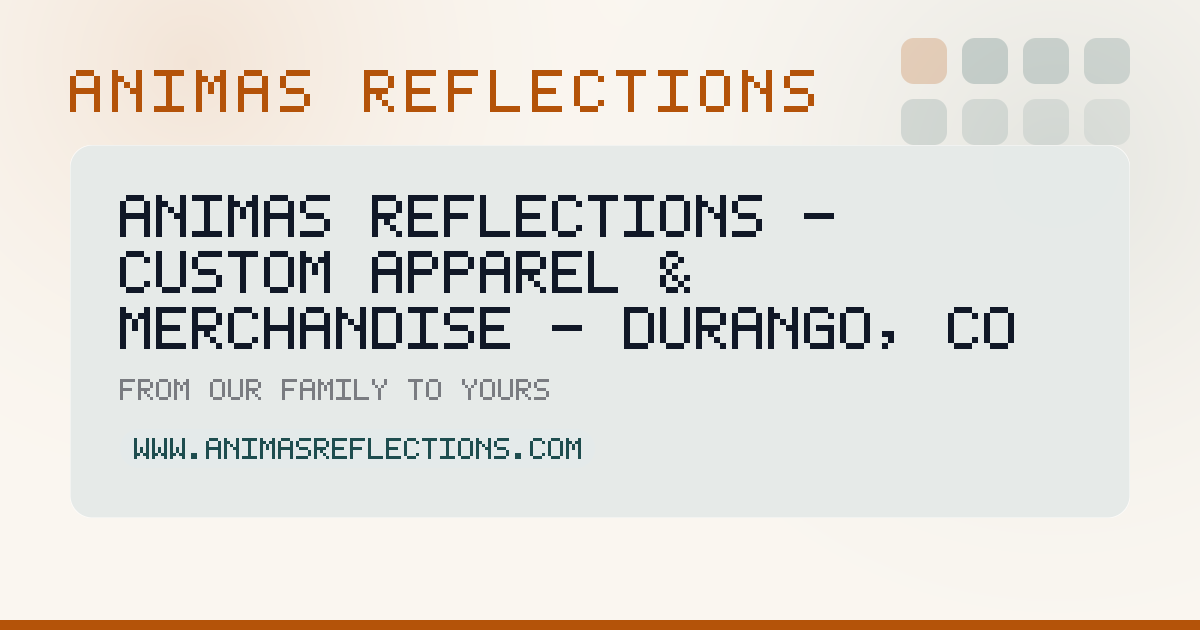
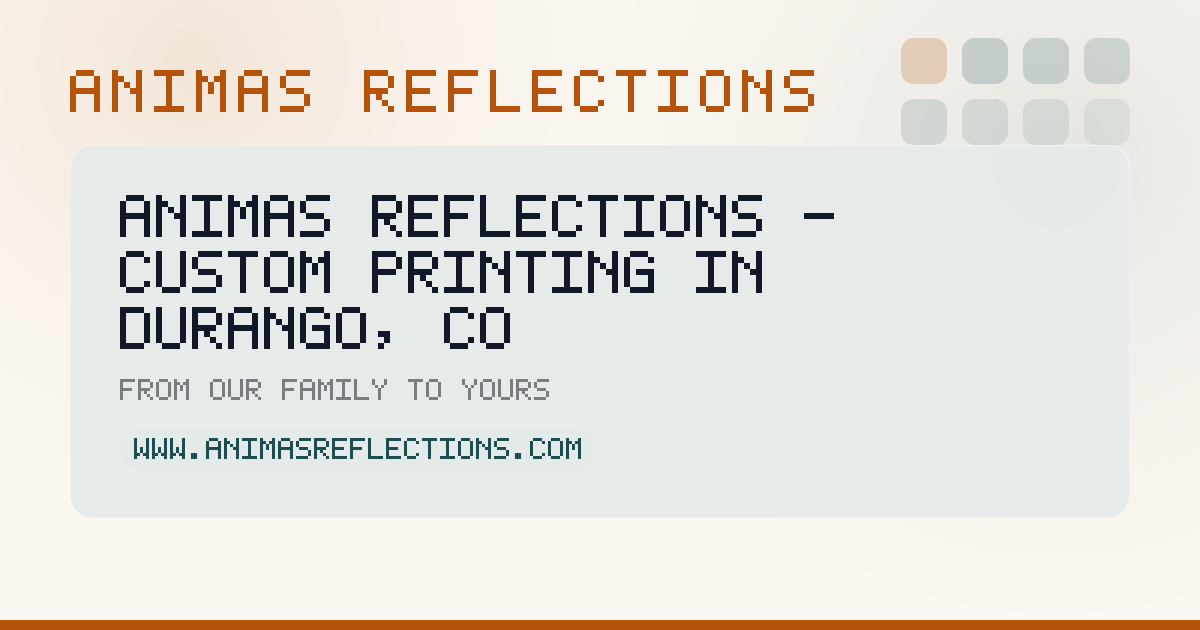
feat(seo): build-time SEO gate, and fix the title/description limits it found
Ports the Nown S.I.T.E.S tools/check-site.mjs SEO gate to this static export as
scripts/check-seo.mjs, wired to postbuild. The walk is recursive (the framework's
own scan is not, and would only ever see the home page here) and it validates
what a crawler receives, not what the source intended: title <=60 with the brand
at most once, description <=155, absolute og:image, canonical equal to the page's
own URL, noindex pages absent from the sitemap, every sitemap loc resolving to a
real file, robots.txt pointing at the sitemap, and every JSON-LD block parsing.

Writing the gate immediately surfaced three real defects it then fixed: the home
title was 63 chars and its description 158 (both over the SERP limits), and
404/_not-found duplicated the home title. Home now lives in a route group so it
can carry its own metadata, and the root layout defaults are the 404 fallback.

A noindex page is exempt from the duplicate-title rule: a crawler will not index
it, and Next renders the built-in error page three times. All four core rules
were negative-tested by deliberately breaking out/ — each failed as intended and
the restored tree passed (21 pages, 12 sitemap URLs).

Lint 0 | Tests 109/109 | Build 24/24 + gate green | Functions tsc clean

diff --git a/src/app/layout.tsx b/src/app/layout.tsx
@@ -25,12 +25,15 @@ export const metadata: Metadata = {
   // Lets Next resolve relative metadata URLs (canonicals, og images) to the
   // production origin instead of warning and falling back to localhost.
   metadataBase: new URL(SITE_URL),
+  // Fallback only: the home page sets its own metadata via src/app/(home)/layout.tsx,
+  // so this is what 404 and _not-found inherit. Kept inside the SERP limits
+  // (60 / 155) and deliberately distinct from the home title.
   title: {
-    default: "Animas Reflections | Custom Apparel & Merchandise — Durango, CO",
+    default: "Animas Reflections — Custom Printing in Durango, CO",
     template: "%s | Animas Reflections",
   },
   description:
-    "Custom designs. Create your own t-shirt, hoodie, bag, ornament, coaster, dog scarf, print on wood, glass, metal, jewelry and more! Based in Durango, Colorado.",
+    "Family-owned custom print shop in Durango, CO. Put your own design on apparel, drinkware, wood, glass and metal.",
   manifest: "/manifest.json",
   appleWebApp: {
     capable: true,

diff --git a/src/app/(home)/layout.tsx b/src/app/(home)/layout.tsx
@@ -1,0 +1,14 @@
+import type { Metadata } from "next";
+import { metadataFor } from "@/lib/seo";
+
+// The home page is a client component, so it cannot export metadata itself and
+// the root layout must not carry a per-page canonical (it wraps every route, so
+// any canonical there is inherited by pages that declare none — that once
+// pointed /product/ and every ?id= product URL at the home page). A route group
+// gives "/" its own metadata, clamped to the SERP limits, without changing the
+// URL.
+export const metadata: Metadata = metadataFor("/");
+
+export default function HomeLayout({ children }: { children: React.ReactNode }) {
+  return <>{children}</>;
+}

diff --git a/PROJECT_CONTEXT.md b/PROJECT_CONTEXT.md
@@ -175,6 +175,8 @@
 29. **Batch 1 security (2026-08-21):** `requireAdmin()` guards all 5 admin callables (functions/src/index.ts); `createSquareOrderAndPay` re-derives ALL prices/add-ons/shipping from Firestore via `functions/src/pricing.ts` and rejects orders whose client `expectedTotal` diverges >2¢ — client amounts are never charged. Checkout must send `product_id`/`addon_id`/`priceType`/`expectedTotal`. `config/admin` is private-read in firestore.rules; storage.rules restricts product/design writes to admins and uploads reads to owner/admin. `saveAdminEmails` normalizes emails to lowercase. Deploy with `firebase deploy --only functions,firestore,storage` after any changes to these.
 30. **Cloud Storage rules CANNOT read Firestore in this project (2026-09-16):** cross-service `firestore.exists()`/`firestore.get()` inside `storage.rules` returns **false for EVERY path** — verified against the live bucket, including public-read docs (`config/site`, `products/{id}`) and an absent control doc. The previous `isAdmin()` (firestore.exists(config/admin) + `.data.emails.hasAny([...])`) therefore evaluated to false for genuine admins and **every admin image upload failed with `storage/unauthorized`** — even though `firestore.rules`' logically-identical check returned 200 for the very same token. **DO NOT put `firestore.*` back into `storage.rules`.** Admin writes are now authorized by the `admin` **custom claim** (`syncAdminClaims` / `syncMyAdminClaim`, re-synced by `saveAdminEmails`) OR the bootstrap founder list in `storage.rules`. Adding an admin via Admin → Admins needs no rules redeploy; only a founder-email change does. `config/admin` remains the source of truth for admins. Client side: `auth-context.tsx` mints the claim on sign-in and calls `getIdToken(true)` once per user per session (ref-guarded so the refresh cannot loop).
 31. **SEO artifacts come from ONE registry (2026-09-16):** `src/lib/seo.ts` `PAGE_SEO` drives both per-route `<head>` metadata (`metadataFor(path)`) and the generated `src/app/sitemap.ts` / `robots.ts`. `public/sitemap.xml` and `public/robots.txt` were **deleted** — do not recreate them (they had drifted, and they would conflict with the generated routes). `public/og-image.png` is generated by `scripts/generate-og.mjs` on `npm prebuild` (`npm run og` to regenerate alone). The site emits **one** JSON-LD `@graph` (WebSite + LocalBusiness, `@id`-linked) via `<SiteJsonLd />` in the root layout — do not add a second site-level JSON-LD block. Adding a route means adding its copy to `PAGE_SEO` once; `metadataFor()` throws at build time on an unregistered path.
+   **The gate:** `scripts/check-seo.mjs` runs as `postbuild` (and standalone via `npm run check:seo`) against the emitted `out/` — the walk is **recursive**, because Next emits `out/<route>/index.html` and the framework's own non-recursive scan would silently check only the home page. It enforces: title present and ≤60 chars with the brand appearing at most once (catches the `title.template` double-suffix), description ≤155, absolute `og:image`, canonical equal to the page's own URL, noindex pages absent from the sitemap, every sitemap `<loc>` resolving to a real file, `robots.txt` pointing at the sitemap, and every JSON-LD block parsing. Its one documented exception is the `INTENTIONALLY_UNLISTED` set at the top of the script (`/product/`). All four rules were negative-tested against deliberately broken output.
+   **`/` lives in the route group `src/app/(home)/`** so it can carry its own metadata — it is a client component and cannot export metadata directly. Do **NOT** add `alternates.canonical` to `src/app/layout.tsx`: the root layout wraps every route, so a canonical there is inherited by any page that declares none (it once pointed `/product/` and every `?id=` product URL at the home page).
 32. **Batches 2–4 conventions (2026-08-21):** the catalog loads ONCE per session via `CatalogProvider` (`src/context/catalog-context.tsx`) — `useCatalog` is a context hook now; don't add independent Firestore catalog reads. Shop/search filter state lives in the URL (`?category=&type=&q=&sort=&density=`, `mode=` on shop) — any new filter state must read/write the query string. `sanitizeHTML` = DOMPurify in the browser, regex fallback elsewhere; never bypass it. New orders store `customerEmailLower` — order lookups must match on it (legacy exact-case query is the fallback). Category delete is blocked while subcategories/products remain; category parent selectors must exclude the whole descendant subtree. Admin editors stay MOUNTED across tab switches (hidden via CSS) — never conditionally unmount them. Product deletes must skip Storage files still referenced by another product (`deleteProductStorage`). Deploy order after checkout/function changes: hosting BEFORE functions.
 
 ---

diff --git a/docs/DEVLOG.md b/docs/DEVLOG.md
@@ -1331,6 +1331,7 @@ See `docs/SCOPE.md` Section 9 "Roadmap — Priority Order"
 6. **`auth-context.tsx`** mints the claim on sign-in and forces `getIdToken(true)` once per user per session, guarded by a ref so the token refresh cannot re-trigger `onAuthStateChanged` into a loop.
 7. **Verified live, end to end:** token claim `admin: true`; upload to the exact failing path **200**; probe cleanup **204**; unauthenticated upload still **403**.
 8. **Ported the Nown S.I.T.E.S SEO conventions** into the Next.js app (see Decisions).
+9. **Added the framework's SEO gate** as `scripts/check-seo.mjs`, wired to `postbuild`. It walks the emitted `out/` **recursively** (unlike the framework's own non-recursive scan, which would only ever see the home page in this export). It immediately caught three real defects: the home title was **63 chars** and its description **158** (both over the SERP limits), and 404/\_not-found duplicated it. All four core rules were then negative-tested by deliberately breaking the output (stripped `og:image`, wrong canonical, doubled brand in the title, sitemap `<loc>` with no page) — each failed as intended, and the restored tree passed.
 
 ### Decisions Made
 - **`config/admin` stays the single source of truth for admins.** The email list inside `storage.rules` is a *bootstrap fallback* only, so uploads work before any claim exists; ordinary admin changes go through the claim and need no redeploy. Only a founder-email change requires editing and redeploying the rules.
@@ -1351,6 +1352,8 @@ See `docs/SCOPE.md` Section 9 "Roadmap — Priority Order"
 | src/components/layout/json-ld.tsx | One @graph (WebSite + LocalBusiness, @id-linked) replaces two flat nodes |
 | src/app/layout.tsx | metadataBase, og:image + twitter:image, <SiteJsonLd /> |
 | scripts/generate-og.mjs, public/og-image.png | NEW — dependency-free 1200×630 share card + npm prebuild |
+| scripts/check-seo.mjs | NEW — recursive SEO gate over out/, wired to postbuild |
+| src/app/(home)/layout.tsx, src/app/(home)/page.tsx | Home page moved into a route group so it can carry its own (60/155-clamped) metadata |
 | src/app/**/layout.tsx, 8 server pages | Per-route static metadata from the registry |
 | PROJECT_CONTEXT.md | Known Issues #30/#31; functions + key-files tables refreshed |
 
